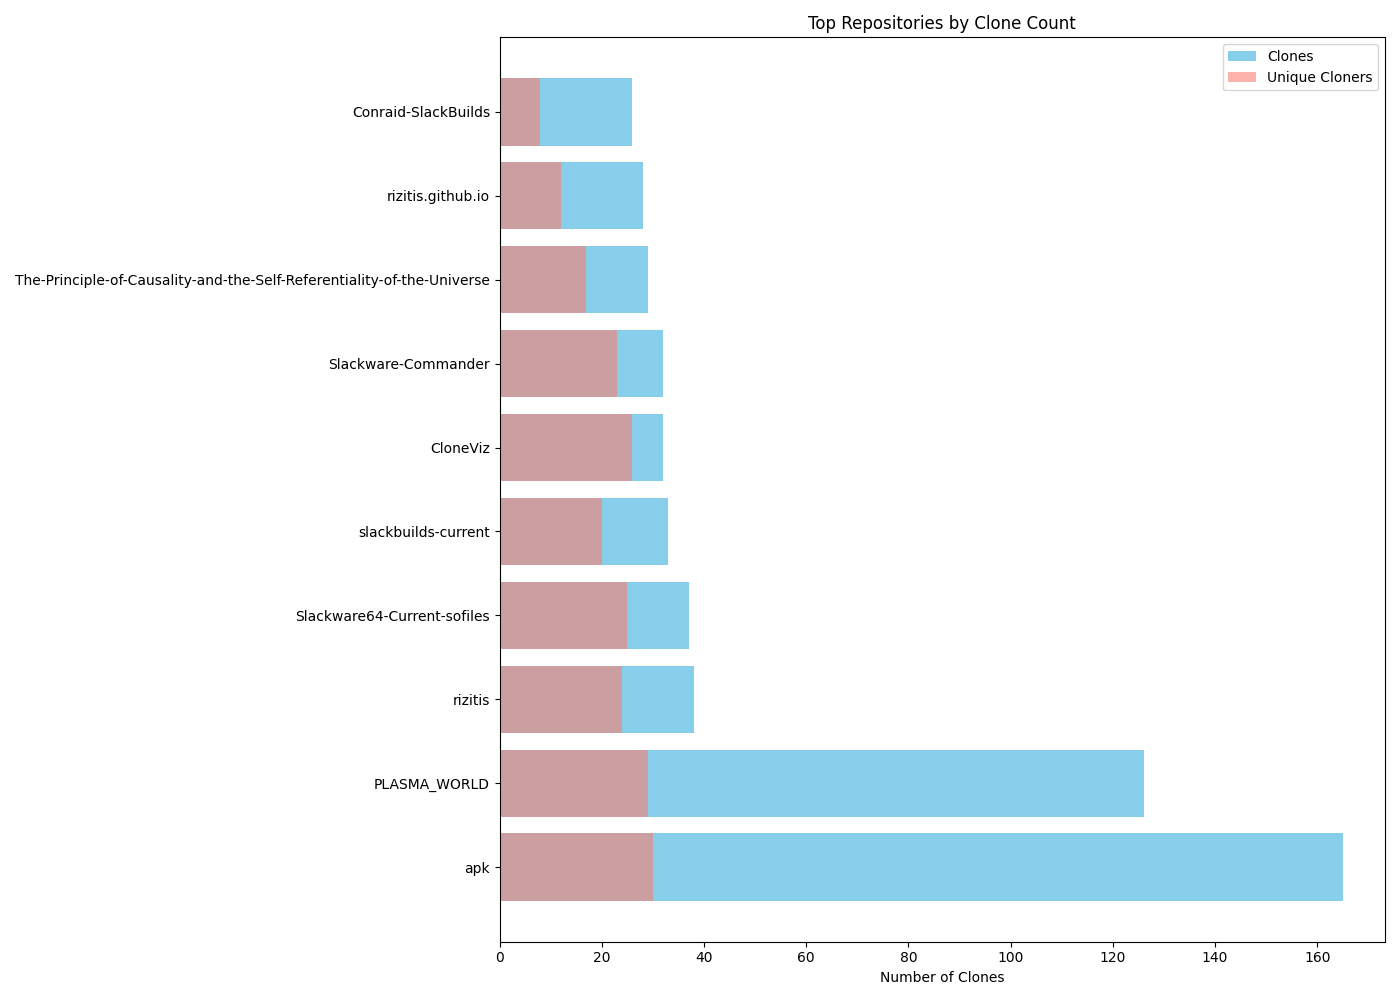
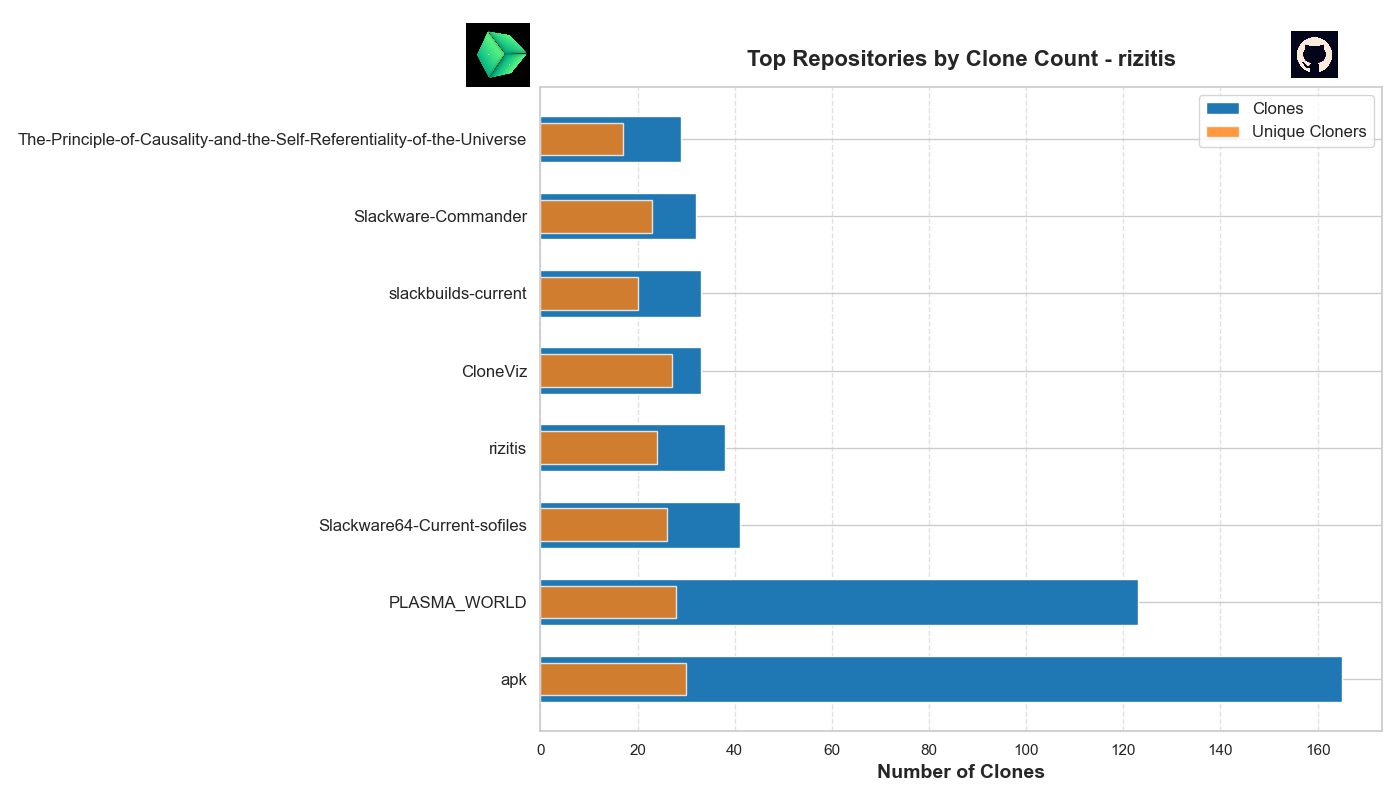
update

diff --git a/visualize_clones.py b/visualize_clones.py
@@ -1,45 +1,67 @@
 import matplotlib.pyplot as plt
+import seaborn as sns
 import json
+import requests
+from PIL import Image
+from io import BytesIO
+import matplotlib.offsetbox as offsetbox
 
-# Load the clone statistics from the 'clone_stats.json' file
+# Load the clone statistics from JSON file
 with open('clone_stats.json', 'r') as f:
     clone_data = json.load(f)
 
-# Extract repository names, clone counts, and unique cloners for visualization
-repo_names = [data['repo'] for data in clone_data]
-clones = [data['clones'] for data in clone_data]
-unique_cloners = [data['unique_cloners'] for data in clone_data]
+# Get user avatar URL from the first entry (assuming all users are the same)
+user_avatar_url = clone_data[0].get("user", {}).get("avatar_url", "")
+user_username = clone_data[0].get("user", {}).get("username", "")
 
-# Limit the length of repository names if they are too long (optional)
-max_name_length = 40
-repo_names = [name if len(name) <= max_name_length else name[:max_name_length] + "..." for name in repo_names]
+# Load the user avatar from the URL
+response = requests.get(user_avatar_url)
+user_avatar = Image.open(BytesIO(response.content))
 
-# Limit the number of repositories shown (optional)
-top_n = 10  # Adjust this number based on how many repos you want to display
+# Limit to top N repositories
+top_n = 8 # Chnage this to the repo number you want to appears in plot.
 clone_data_sorted = sorted(clone_data, key=lambda x: x['clones'], reverse=True)[:top_n]
 
+# Extract data for the repositories
 repo_names = [data['repo'] for data in clone_data_sorted]
 clones = [data['clones'] for data in clone_data_sorted]
 unique_cloners = [data['unique_cloners'] for data in clone_data_sorted]
 
-# Create a figure and axis for the plot
-plt.figure(figsize=(14, 10))  # Increase the figure size for better readability
+# Set seaborn theme for the plot
+sns.set_theme(style="whitegrid")
 
-# Create a horizontal bar chart for clones
-plt.barh(repo_names, clones, color='skyblue', label='Clones')
+# Create figure
+fig, ax = plt.subplots(figsize=(14, 8))
 
-# Add labels and title
-plt.xlabel('Number of Clones')
-plt.title('Top Repositories by Clone Count')
+# Plot bars for clones and unique cloners
+bar_width = 0.6
+ax.barh(repo_names, clones, height=bar_width, color="#1f77b4", label="Clones")
+ax.barh(repo_names, unique_cloners, height=bar_width * 0.7, color="#ff7f0e", alpha=0.8, label="Unique Cloners")
 
-# Add another horizontal bar for unique cloners
-plt.barh(repo_names, unique_cloners, color='salmon', alpha=0.6, label='Unique Cloners')
+# Add GitHub logo (Top-Right Corner)
+github_url = "https://github.githubassets.com/images/modules/logos_page/GitHub-Mark.png"
+response = requests.get(github_url)
+github_icon = Image.open(BytesIO(response.content))
+github_imagebox = offsetbox.AnnotationBbox(
+    offsetbox.OffsetImage(github_icon, zoom=0.06), (0.92, 1.05), xycoords='axes fraction', frameon=False)
+ax.add_artist(github_imagebox)
 
-# Add legend
-plt.legend()
+# Add user avatar to the top-left corner
+if user_avatar_url:
+    user_avatar_box = offsetbox.AnnotationBbox(
+        offsetbox.OffsetImage(user_avatar, zoom=0.1), (-0.05, 1.05), xycoords='axes fraction', frameon=False)
+    ax.add_artist(user_avatar_box)
 
-# Adjust layout for better spacing
+# Labels and Title
+ax.set_xlabel("Number of Clones", fontsize=14, fontweight="bold")
+ax.set_title(f"Top Repositories by Clone Count - {user_username}", fontsize=16, fontweight="bold", pad=15)
+ax.set_yticks(range(len(repo_names)))
+ax.set_yticklabels(repo_names, fontsize=12)
+
+# Grid, legend, and layout
+ax.legend(fontsize=12)
+ax.grid(axis="x", linestyle="--", alpha=0.6)
 plt.tight_layout()
 
-# Display the plot with proper space
+# Show the plot
 plt.show()

diff --git a/fetch_clone_data.py b/fetch_clone_data.py
@@ -12,6 +12,9 @@ with open('.token.txt', 'r') as token_file:
 repos_url = f'https://api.github.com/users/{username}/repos?per_page=100&page=1'
 headers = {'Authorization': f'token {token}'}
 
+# GitHub API endpoint to get user info
+user_url = f'https://api.github.com/users/{username}'
+
 # Prepare a list to store clone stats
 clone_data = []
 
@@ -32,6 +35,23 @@ def get_all_repos(url):
             break
     return repos
 
+# Fetch user info (like avatar, username)
+def get_user_info():
+    response = requests.get(user_url, headers=headers)
+    if response.status_code == 200:
+        user_info = response.json()
+        return {
+            'username': user_info['login'],
+            'avatar_url': user_info['avatar_url'],
+            'html_url': user_info['html_url']
+        }
+    else:
+        print(f"Error fetching user info: {response.status_code}")
+        return None
+
+# Get the user information
+user_info = get_user_info()
+
 # Get the list of all repositories
 repos = get_all_repos(repos_url)
 
@@ -48,7 +68,8 @@ for repo in repos:
         clone_data.append({
             'repo': repo_name,
             'clones': clone_count,
-            'unique_cloners': unique_cloners
+            'unique_cloners': unique_cloners,
+            'user': user_info  # Adding user info to the repo data
         })
 
 # Sort the repositories by the number of clones in descending order

diff --git a/README.md b/README.md
@@ -9,7 +9,7 @@ Displays the clone statistics of my (yours) GitHub repositories. Repositories ar
 ### Prepare
 
 - clone this repo `https://github.com/rizitis/CloneViz.git`
-- `pip install requests matplotlib`
+- `pip install requests matplotlib seaborn pillow`
 - create a hidden file `.token.txt` and write in your personal github token
 - edit `fetch_clone_data.py` and replace my github user name `rizitis` with yours. 
 
